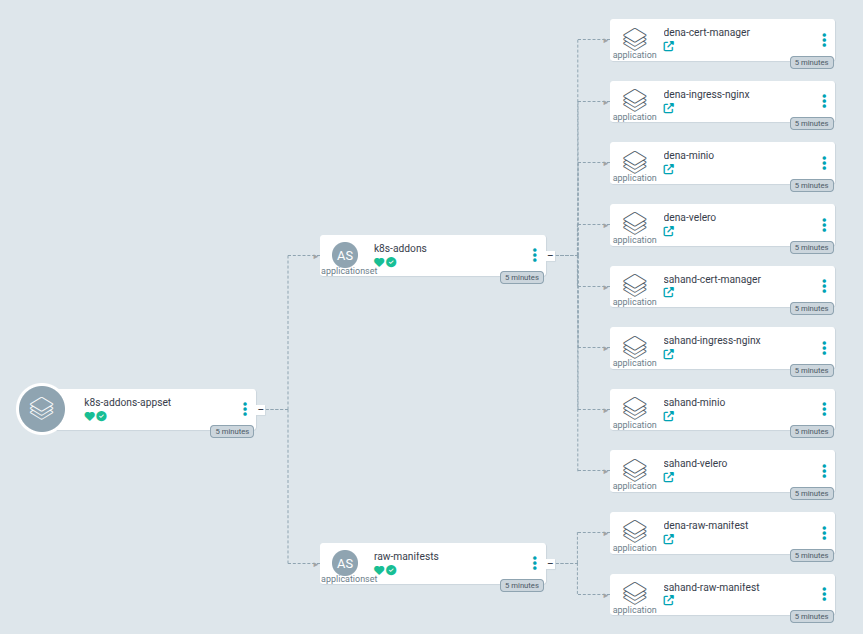
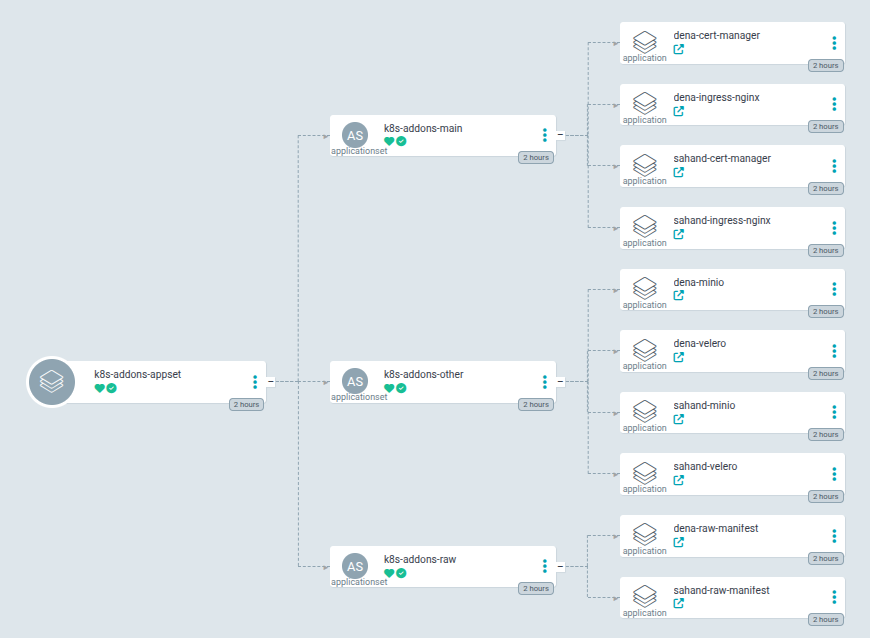
Add argocd readme and total scenario

diff --git a/argocd/ReadMe.md b/argocd/ReadMe.md
@@ -400,13 +400,20 @@ argocd app sync ingress-appset
 
 **file and directory structure**
 ```bash
-├── multiple-apps.yaml
+argocd/applicationset/multiple-apps
+├── main-apps.yaml
+├── manifests
+│   └── clusterIssuer.yaml
+├── others-apps.yaml
+├── raw-manifests.yml
 └── values
     ├── dena
+    │   ├── cert-manager-values.yaml
     │   ├── ingress-nginx-values.yaml
     │   ├── minio-values.yaml
     │   └── velero-values.yaml
     └── sahand
+        ├── cert-manager-values.yaml
         ├── ingress-nginx-values.yaml
         ├── minio-values.yaml
         └── velero-values.yaml
